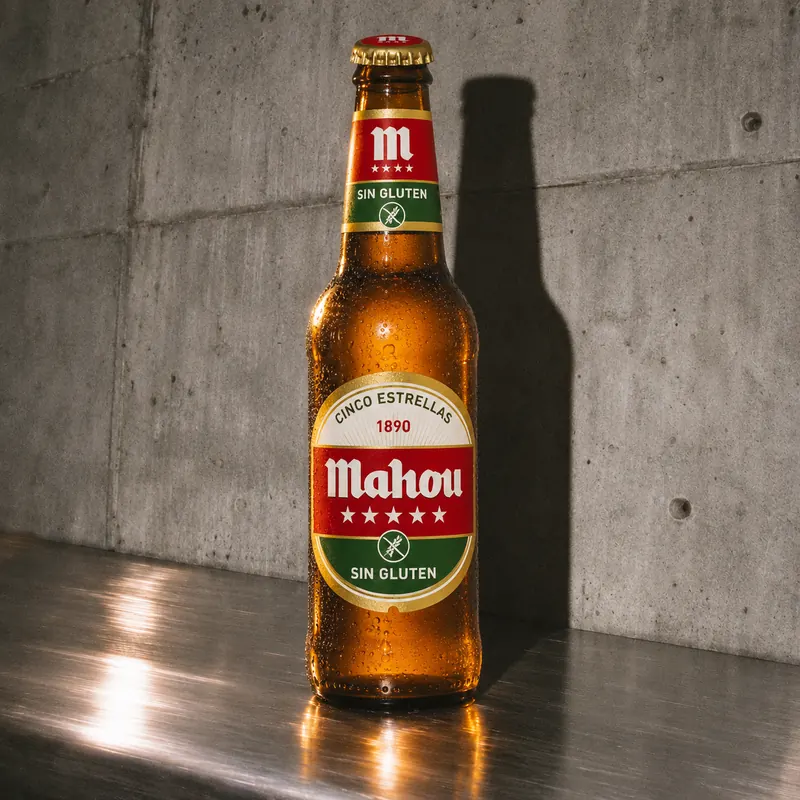
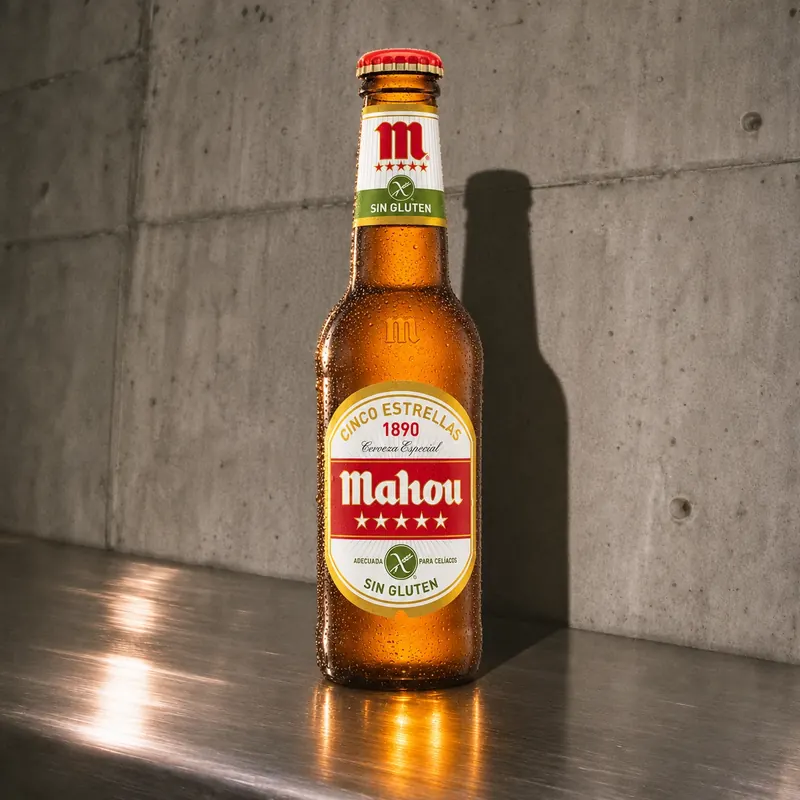
Nuevas fotos de Mahou (Reserva, Sin Gluten, 5 Estrellas, Session IPA, Radler, Maestra y Clásica)

diff --git a/menu.js b/menu.js
@@ -184,10 +184,10 @@ window.CARTA = {
                 { name: 'Pepsi', img: '/assets/dishes/bebida-pepsi.webp', price: 3.5 }, { name: 'Pepsi Max', img: '/assets/dishes/bebida-pepsi-max.webp', price: 3.5 }, { name: 'Kas Limón', img: '/assets/dishes/bebida-kas-limon.webp', price: 3.5 }, { name: 'Kas Naranja', img: '/assets/dishes/bebida-kas-naranja.webp', price: 3.5 }, { name: 'Aquarade Limón', img: '/assets/dishes/bebida-aquarade-limon.webp', price: 3.5 }, { name: 'Aquarade Naranja', img: '/assets/dishes/bebida-aquarade-naranja.webp', price: 3.5 }, { name: '7UP', img: '/assets/dishes/bebida-7up.webp', price: 3.5 }, { name: 'Lipton', img: '/assets/dishes/bebida-lipton.webp', price: 3.5 }, { name: 'Tónica', img: '/assets/dishes/bebida-tonica.webp', price: 3.5 }
               ] },
               { title: { es: 'Cervezas', en: 'Beers' }, note: { es: 'Tercios · Solo mayores de 18 años', en: 'Tercios · 18+ only' }, compact: true, alPending: true, items: [
-                { name: 'Alhambra Reserva 1925', img: '/assets/dishes/bebida-alhambra-reserva-1925.webp', price: 3.5 }, { name: 'Alhambra Reserva Roja', img: '/assets/dishes/bebida-alhambra-reserva-roja.webp', price: 4 }, { name: 'Mahou 5 Estrellas', img: '/assets/dishes/bebida-mahou-5-estrellas.webp', price: 3.3 }, { name: 'Mahou Reserva', img: '/assets/dishes/bebida-mahou-reserva.webp', price: 3.8 }, { name: 'Mahou Session IPA', img: '/assets/dishes/bebida-mahou-session-ipa.webp', price: 4 }, { name: 'Mahou Sin Gluten', img: '/assets/dishes/bebida-mahou-sin-gluten.webp', price: 3.5 }, { name: 'Mahou 0,0 Tostada', img: '/assets/dishes/bebida-mahou-00-tostada.webp', price: 3.3 }, { name: 'Coronita', img: '/assets/dishes/bebida-coronita.webp', price: 3.8 }, { name: 'Tinto de verano', img: '/assets/dishes/bebida-tinto-de-verano.webp', price: 3.5 }
+                { name: 'Alhambra Reserva 1925', img: '/assets/dishes/bebida-alhambra-reserva-1925.webp', price: 3.5 }, { name: 'Alhambra Reserva Roja', img: '/assets/dishes/bebida-alhambra-reserva-roja.webp', price: 4 }, { name: 'Mahou 5 Estrellas', img: '/assets/dishes/bebida-mahou-5-estrellas.webp?v=2', price: 3.3 }, { name: 'Mahou Reserva', img: '/assets/dishes/bebida-mahou-reserva.webp?v=2', price: 3.8 }, { name: 'Mahou Session IPA', img: '/assets/dishes/bebida-mahou-session-ipa.webp?v=2', price: 4 }, { name: 'Mahou Sin Gluten', img: '/assets/dishes/bebida-mahou-sin-gluten.webp?v=2', price: 3.5 }, { name: 'Mahou 0,0 Tostada', img: '/assets/dishes/bebida-mahou-00-tostada.webp', price: 3.3 }, { name: 'Coronita', img: '/assets/dishes/bebida-coronita.webp', price: 3.8 }, { name: 'Tinto de verano', img: '/assets/dishes/bebida-tinto-de-verano.webp', price: 3.5 }
               ] },
               { title: { es: 'Dobles', en: 'Large beers' }, note: { es: 'Solo mayores de 18 años', en: '18+ only' }, compact: true, alPending: true, items: [
-                { name: 'Mahou Clásica', img: '/assets/dishes/bebida-mahou-clasica.webp', price: 3 }, { name: 'Mahou Maestra', img: '/assets/dishes/bebida-mahou-maestra.webp', price: 4.2 }, { name: 'Radler', img: '/assets/dishes/bebida-radler.webp', price: 3 }
+                { name: 'Mahou Clásica', img: '/assets/dishes/bebida-mahou-clasica.webp?v=2', price: 3 }, { name: 'Mahou Maestra', img: '/assets/dishes/bebida-mahou-maestra.webp?v=2', price: 4.2 }, { name: 'Radler', img: '/assets/dishes/bebida-radler.webp?v=2', price: 3 }
               ] },
               { title: { es: 'Vermuts', en: 'Vermouths' }, note: { es: 'Solo mayores de 18 años', en: '18+ only' }, compact: true, alPending: true, items: [
                 { name: 'Vermut casero ROCE', img: '/assets/dishes/bebida-vermut-casero-roce.webp', price: 3.5 }, { name: 'Martini Rosso', img: '/assets/dishes/bebida-martini-rosso.webp', price: 4.5 }, { name: 'Martini Bianco', img: '/assets/dishes/bebida-martini-bianco.webp', price: 4.5 }, { name: 'Martini Fiero', img: '/assets/dishes/bebida-martini-fiero.webp', price: 5 }, { name: 'Martini Rosato', img: '/assets/dishes/bebida-martini-rosato.webp', price: 4.5 }

diff --git a/sw.js b/sw.js
@@ -1,5 +1,5 @@
 /* ROCE · App de pedidos: caché sencilla del cascarón de la app (la carta y los pedidos siempre van a la red cuando hay conexión). */
-var V = 'roce-app-143';
+var V = 'roce-app-144';
 var SHELL = ['/', '/carta.css', '/carta.js', '/chef.js', '/menu.js', '/order.js', '/account.js', '/tour.js', '/sheet-drag.js', '/ux.js', '/order.css', '/i18n.js', '/config.js', '/manifest.webmanifest', '/assets/fonts/HelveticaNeue-Regular.woff2?v=2', '/assets/fonts/HelveticaNeue-Bold.woff2?v=2'];
 self.addEventListener('install', function (e) { e.waitUntil(caches.open(V).then(function (c) { return c.addAll(SHELL); }).then(function () { return self.skipWaiting(); })); });
 self.addEventListener('activate', function (e) {

diff --git a/index.html b/index.html
@@ -89,7 +89,7 @@
 })();
 </script>
 <script src="/i18n.js?v=107"></script>
-<script src="/menu.js?v=63"></script>
+<script src="/menu.js?v=64"></script>
 <script src="/carta.js?v=67"></script>
 <script src="/chef.js?v=18"></script>
 <script src="/order.js?v=60"></script>
